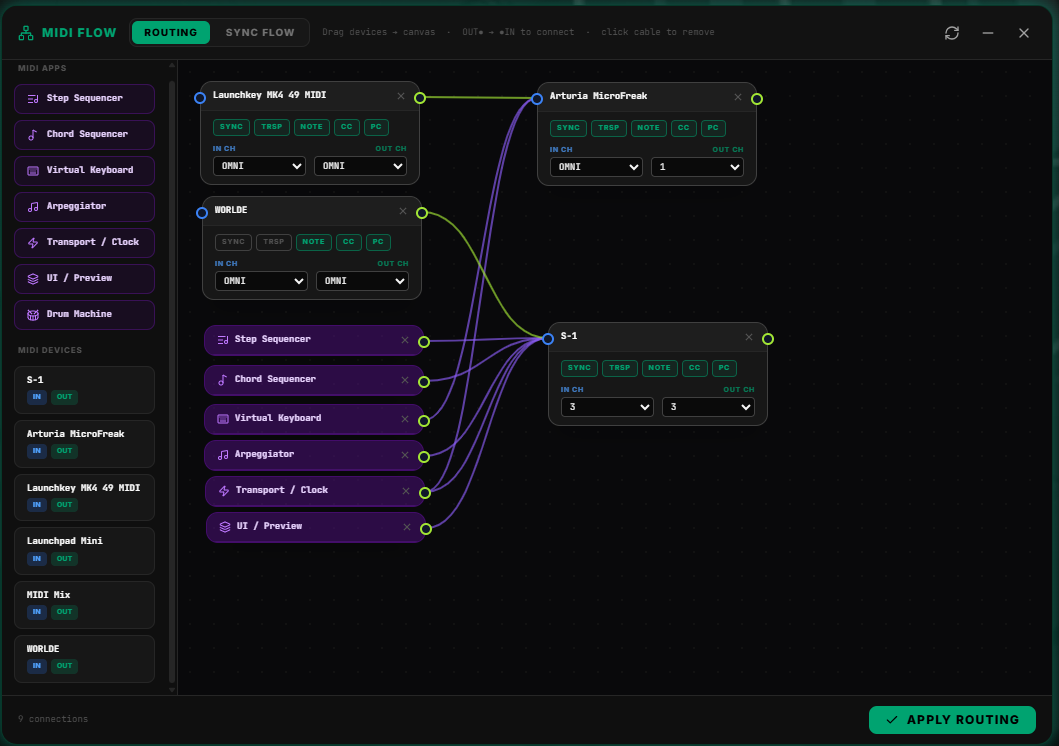
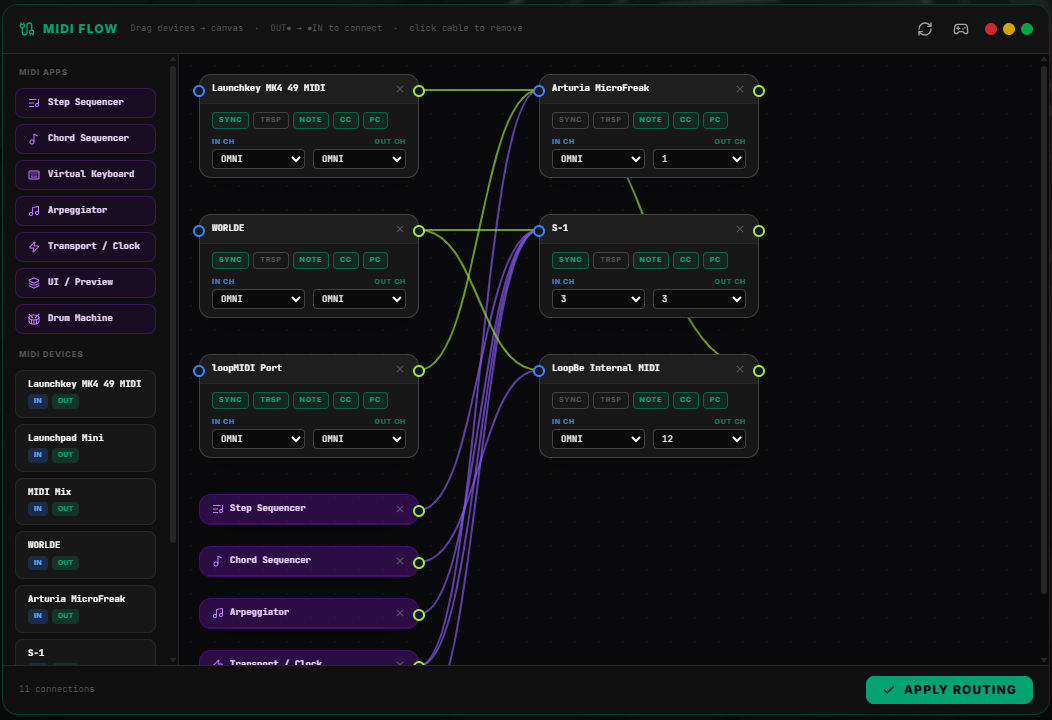
Update Guides

diff --git a/src/components/GuidesPanel.vue b/src/components/GuidesPanel.vue
@@ -61,9 +61,10 @@ const CATEGORIES = [
     color: 'text-blue-400',
     items: [
       { id: 'midi-setup',       label: 'Connecting MIDI Devices', file: 'SYCORE_MIDI_SETUP' },
-      { id: 'midi-manager',    label: 'MIDI Manager',         file: 'SYCORE_MIDI MANAGER' },
       { id: 'midi-devices',    label: 'Devices',         file: 'SYCORE_MIDI_DEVICES' },
       { id: 'midi-flow',    label: 'MIDI Flow',         file: 'SYCORE_MIDI_FLOW' },
+      { id: 'controller-designer',  label: 'Controller Designer',          file: 'SYCORE_MIDI_CONTROLLER_DESIGNER' },
+      { id: 'midi-manager',    label: 'MIDI Manager',         file: 'SYCORE_MIDI MANAGER' },
       { id: 'midi-routing',    label: 'Routing',         file: 'SYCORE_MIDI_ROUTING' },
       { id: 'midi-performance',  label: 'Performance',         file: 'SYCORE_MIDI_PERFORMANCE' },
       { id: 'midi-mapping',      label: 'CC Mapping',         file: 'SYCORE_MIDI_MAPPING' },
@@ -71,7 +72,6 @@ const CATEGORIES = [
       { id: 'midi-sync',    label: 'MIDI Sync',         file: 'SYCORE_MIDI_SYNC' },
       { id: 'midi-capture',    label: 'MIDI Capture',         file: 'SYCORE_MIDI_CAPTURE' },
       { id: 'program-change',  label: 'Multi Sound',          file: 'SYCORE_DEVICE_PROGRAM_CHANGE' },
-      { id: 'controller-designer',  label: 'Controller Designer',          file: 'SYCORE_MIDI_CONTROLLER_DESIGNER' },
     ],
   },
   {
@@ -80,9 +80,9 @@ const CATEGORIES = [
     items: [
       { id: 'audio-capture', label: 'Audio Capture',              file: 'SYCORE_AUDIO_CAPTURE' },
       { id: 'backing-track', label: 'Backing Track Player',       file: 'SYCORE_BACKING_TRACK_PLAYER' },
+      { id: 'sampler',       label: 'Sampler',                    file: 'SYCORE_SAMPLER' , badge: 'Beta' },
       { id: 'freesound-browser', label: 'Freesound.org Browser',  file: 'SYCORE_FREESOUND_BROWSER' },
       { id: 'looper',        label: 'Audio Looper',               file: 'SYCORE_LOOPER', badge: 'Beta' },
-      { id: 'sampler',       label: 'Sampler',                    file: 'SYCORE_SAMPLER' },
     ],
   },
 

diff --git a/src/stores/useSamplerStore.ts b/src/stores/useSamplerStore.ts
@@ -40,12 +40,17 @@ export interface SamplerPad {
   release: number
   chromatic: boolean
   polyMode: boolean
-  // Granular (pad idx 6 only)
+  armed: boolean
+  // Granular (pads 7 & 8 — indices 6 & 7)
   granular?: boolean
   grainSize?: number
   grainOverlap?: number
   grainPosition?: number
   grainPitch?: number
+  grainSpray?: number
+  grainDirection?: number  // 0=forward, 1=backward, 2=alternating, 3=random
+  grainStereo?: number
+  grainCount?: number
 }
 
 export interface SamplerStep {
@@ -102,13 +107,18 @@ function defaultPad(bankId: string, padIdx: number): SamplerPad {
     release: 0.05,
     chromatic: true,
     polyMode: false,
+    armed: false,
   }
-  if (padIdx === 7) {
+  if (padIdx === 6 || padIdx === 7) {
     base.granular = true
     base.grainSize = 0.1
     base.grainOverlap = 0.5
     base.grainPosition = 0.5
     base.grainPitch = 0
+    base.grainSpray = 0.3
+    base.grainDirection = 0      // 0=forward, 1=backward, 2=alternating, 3=random
+    base.grainStereo = 0
+    base.grainCount = 4
   }
   return base
 }

diff --git a/docs/guides/SYCORE_MIDI_SETUP.md b/docs/guides/SYCORE_MIDI_SETUP.md
@@ -6,7 +6,7 @@
 ---
 ## Quick Reference
 
-<img src="/help/guides/sycore-MIDI-Setup-Guide.png"/>
+<!-- <img src="/help/guides/sycore-MIDI-Setup-Guide.png"/> -->
 
 ## Before You Start
 
@@ -50,18 +50,24 @@ Click **Allow**. If you accidentally click Block, go to the browser's site setti
 
 ---
 
-## Step 3 — Open the MIDI Manager
 
-In the SY.CORE header, click the **MIDI** button (or use the keyboard shortcut assigned to it). The **Unified MIDI Manager** modal opens.
+[<button class="border px-8 py-2 border-neutral-700 rounded m-auto hover:bg-synth-neon bg-synth-neon/50">Next MIDI DEVICES</button>](./SYCORE_MIDI_DEVICES.md)
+
+## Step 3 — Open the MIDI Devices
+
+<!-- [<img src="/help/guides/sycore-midi-devices.png"/>](./SYCORE_MIDI_DEVICES.md) -->
+<!-- [MIDI Devices](./SYCORE_MIDI_DEVICES.md) -->
+
+<!-- In the SY.CORE header, click the **MIDI** button (or use the keyboard shortcut assigned to it). The **Unified MIDI Manager** modal opens.
 
 
 All eight tabs are described below in the order you will use them during initial setup.
 
----
+--- -->
 
-## Step 4 — Discover Your Devices (Devices Tab)
+## Step 4 — MIDI Flow (Devices Tab)
 
-<img src="/help/guides/sycore-midi-manager.png"/>
+<img src="/help/guides/sycore-midi-routing-flow.png"/>
 
 Open the **Devices** tab (the first tab, selected by default).
 

diff --git a/docs/guides/SYCORE_MIDI_DEVICES.md b/docs/guides/SYCORE_MIDI_DEVICES.md
@@ -1,8 +1,8 @@
 # MIDI DEVICES
 
-<img src="/help/guides/sycore-midi-manager.png"/>
+<img src="/help/guides/sycore-midi-devices.png"/>
 
-Open the **Devices** tab (the first tab, selected by default).
+Open the **Devices** from the Main Page.
 
 The panel lists every MIDI port detected by the Web MIDI API — inputs and outputs — grouped by physical device. Each entry shows:
 
@@ -23,3 +23,7 @@ The panel lists every MIDI port detected by the Web MIDI API — inputs and outp
 Click **Add to Routing** next to the device you want to use. This moves it into the routing system so it appears in all other tabs. Registered devices persist across sessions — you only need to do this once per device.
 
 If the auto-detected type is wrong (e.g. a controller is classified as an instrument), click the type badge to cycle through the options. Your choice is saved immediately.
+
+Click the button **FLOW** to connect your devices
+
+[<button class="border px-8 py-2 border-neutral-700 rounded m-auto hover:bg-synth-neon bg-synth-neon/50">Next MIDI FLOW</button>](./SYCORE_MIDI_FLOW.md)

diff --git a/docs/guides/SYCORE_DRUM_MACHINE.md b/docs/guides/SYCORE_DRUM_MACHINE.md
@@ -183,6 +183,8 @@ Each style has multiple variants; one is chosen randomly on each press so repeat
 
 ## Bassline
 
+<img src="/help/guides/sycore-drum-machine-bassline.png"/>
+
 The bassline section lets you control 3 melodic voices assigned to the last three drum slots (Rim Shot, Cowbell, Tambourine by default). Each voice is a 16-step monophonic sequencer with per-step pitch (MIDI note).
 
 ### Enabling Bassline
@@ -225,6 +227,8 @@ Each voice has 16 step buttons. Click to toggle a step on/off. Right-click for v
 ---
 
 ## Euclidean Generator
+
+<img src="/help/guides/sycore-drum-machine-euclidean.png"/>
 
 The Euclidean generator creates rhythms using the Bjorklund algorithm, which distributes `pulses` evenly across `steps` positions — similar to the Euclidean rhythm found in many hardware sequencers (e.g., Elektron, Korg volca).
 
